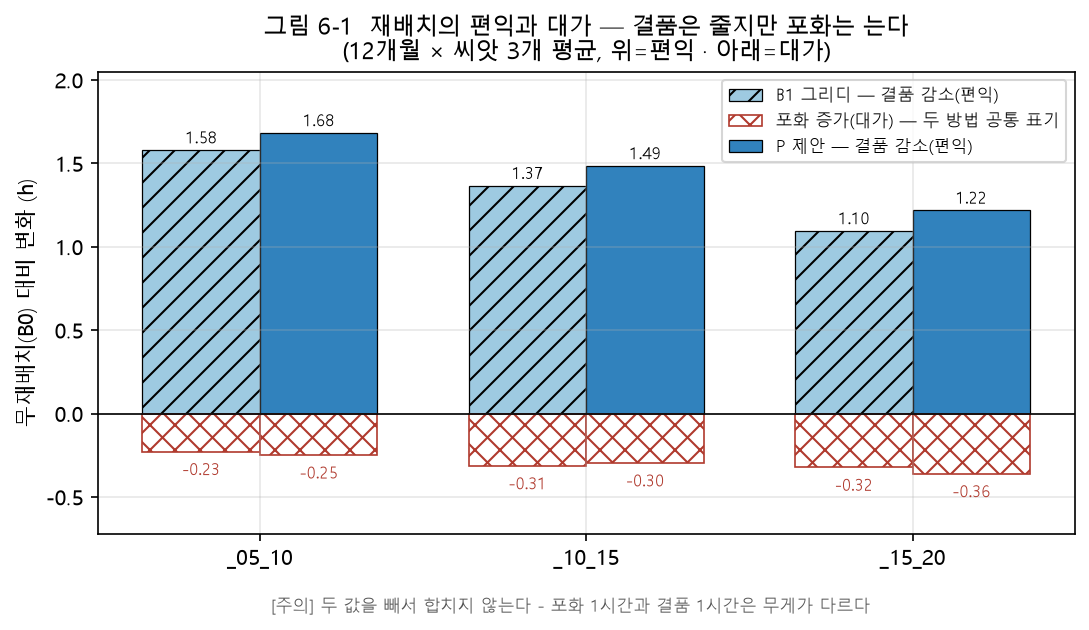
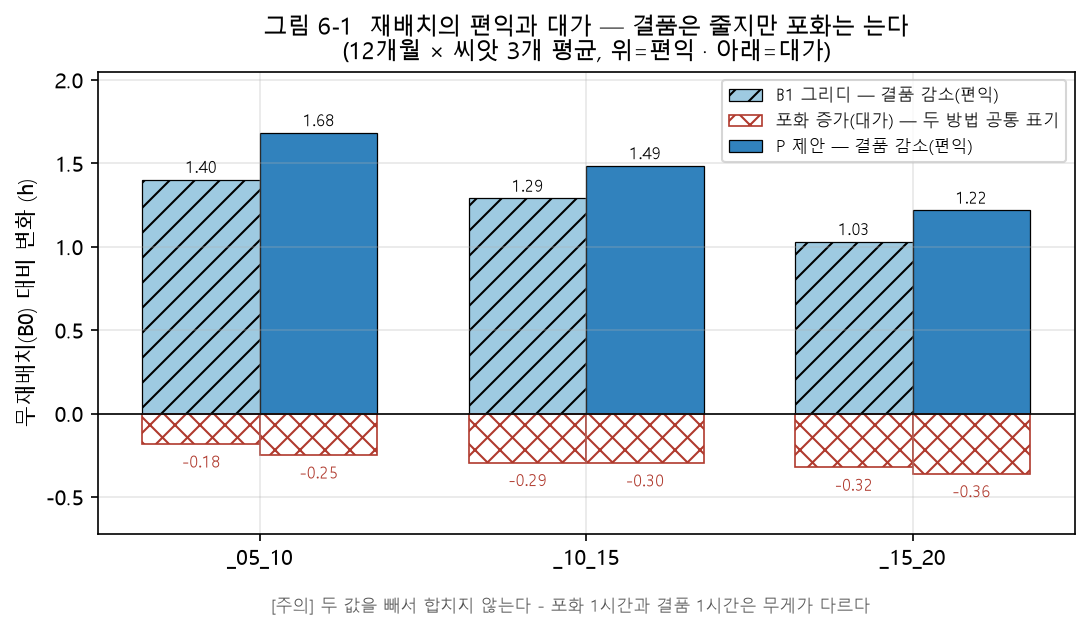
260921 논문의 핵심 장에 그림이 하나도 없었다 (1.26.256)
커밋 검토의 두 번째 항목이다. 원고 6장은 대조군 비교를 담는 핵심 장인데 그림이
0개였고, 앞붙이의 그림 차례에도 6장이 없었다. 그림 6-1·6-2·6-3은 초안에만 실려
있었고 파일은 09-07에 상수 속도(25km/h)로 그린 것이라, [그림 6-3]은 1.26.255에서
철회한 주장(*"km당으로는 그리디와 대등하다"*)을 그대로 그리고 있었다.

**원천부터 다시 만들었다.** 세 그림은 12개월 반복의 원본 행을 읽는데 켠 채로 돌린
그 파일은 `data\gate_a_rerun\`에만 있고 커밋되지 않는다. 회사 PC에서 채택한
계수로 다시 돌려(`repeat_12month_on.csv`) 33장의 표와 **한 자리까지 같은 것을
확인**했다 — P 결품 0.57 · 0.44 · 0.48h, 이동 460.5 · 361.0 · 395.9km, 최장
153.4 · 136.8 · 149.1분, 묶은 검정 +0.22h · −0.03h(n=108, p<0.0001). 끈 채 표와
켠 채 표가 이제 서로 다른 PC에서 각각 재현된 셈이다.

`make_thesis_figures.py`는 `REPEAT_12M` 상수로 켠 채 파일을 읽는다. 옛 파일 이름을
그대로 두면 다음 사람이 상수 속도 결과로 다시 그려도 알아채지 못하므로 상수 옆에
그 함정을 적었다. [그림 6-3]의 제목과 오른쪽 패널 라벨도 뒤집힌 결론에 맞게 고쳤다.

**원고 6.2·6.4·6.5에 그림과 본문 문단을 넣었다.** 그림 차례와 부록 A에도 올렸다.
[그림 6-2]에서 하나 확인한 것 — 세 회차 모두 제안 방법의 상자가 대조군보다 아래에
있고 상자끼리 겹치지 않지만 **수염은 겹친다.** 특정한 달·씨앗에서는 그리디가 제안
방법의 중앙값보다 나은 결과를 낸다는 뜻이라 본문에 적었다.

**거리에서도 하나 찾았다.** 채택한 식에서 P는 `_15_20`에서 그리디보다 12km 덜
다닌다(395.9 대 408.0). *"세 회차 모두 더 멀리 다닌다"* 는 상수 속도 표의 성질이라
초안 6장·9장의 그 문장에 단서를 달았다. 정합성 검사가 이 과정에서 제 몫을 했다 —
9장(파생 문서)에 앞 장에 없는 수치를 넣었더니 여섯 건으로 막았고, 초안 6장에 먼저
적은 뒤에야 통과했다.

🔴 **원고 README 4-1의 '자리' 규칙은 이 결함을 못 잡는다.** 자리 표시는 *아직 만들지
않은 자료*만 세고 **만들어 두고 원고에 싣지 않은 자료**는 세지 않는다. 09-19 기준
"자리 0곳"이었는데도 그림 셋이 빠져 있던 까닭이라, README에 이 한계를 적었다.

코드 1개 파일, 그림 3장 교체. 테스트 940 통과·2 건너뜀(942 수집), 정합성 검사 0건.

diff --git a/tools/make_thesis_figures.py b/tools/make_thesis_figures.py
@@ -81,6 +81,10 @@ STYLE = {
     "P": dict(색="#3182bd", 해치="", 마커="D", 이름="P 제안"),
 }
 DURATIONS = ["_05_10", "_10_15", "_15_20"]
+# 6장 그림 셋의 원천. **채택한 이동시간 식(320.4초 · 32.11km/h)으로 돌린 12개월 반복**이다 —
+# 옛 `repeat_12month_pinned.csv`는 상수 속도(25km/h)로 잰 것이라, 그 파일로 그리면 그림 6-3이
+# *"km당으로는 대등하다"* 는 **철회된 주장**을 그린다(EXPERIMENTS 33장). 재현은 부록 A에 있다.
+REPEAT_12M = "baseline/repeat_12month_on.csv"
 # 그림 3-5의 표본 끝 — 게이트 A 판정일. 채택 계수(320.4초 · 32.11km/h)가 이날까지의 패널에서 나왔다.
 ROAD_FIT_TO = "2026-09-15"
 
@@ -121,7 +125,7 @@ def _need(path: Path, what: str) -> pd.DataFrame | None:
 # ────────────────────────────────────────────────────────────── 6-2
 def fig_6_2():
     """12개월 반복의 분포. 표는 이것을 평균±표준편차 한 줄로 줄인다."""
-    frame = _need(EXP / "baseline/repeat_12month_pinned.csv", "12개월 반복 결과")
+    frame = _need(EXP / REPEAT_12M, "12개월 반복 결과(채택한 이동시간 식)")
     if frame is None:
         return
     fig, axes = plt.subplots(1, 3, figsize=(11, 3.6), sharey=True)
@@ -143,7 +147,7 @@ def fig_6_2():
         ax.set_title(f"{duration}  (각 n={len(data[0])})", fontsize=10)
     axes[0].set_ylabel("재배치 후 결품 시간 (h) — 낮을수록 좋음")
     fig.suptitle("그림 6-2  12개월 × 씨앗 3개 반복의 결품 시간 분포 "
-                 "(평일, 스냅샷 2026-08-11 real)\n"
+                 "(평일, 스냅샷 2026-08-11 real, 이동시간 식 적용)\n"
                  "상자는 사분위·수염은 1.5 IQR, 겹친 점이 개별 실행 36개다", fontsize=11, y=1.06)
     save(fig, "그림6-2_결품분포", "반복의 분포 (표는 평균±표준편차로 줄인다)")
 
@@ -151,7 +155,7 @@ def fig_6_2():
 # ────────────────────────────────────────────────────────────── 6-1
 def fig_6_1():
     """편익과 대가를 한 축에. 표 둘을 맞대야만 보이던 것이다."""
-    frame = _need(EXP / "baseline/repeat_12month_pinned.csv", "12개월 반복 결과")
+    frame = _need(EXP / REPEAT_12M, "12개월 반복 결과(채택한 이동시간 식)")
     if frame is None:
         return
     base = (frame[frame["method"] == "B0"]
@@ -199,8 +203,13 @@ def fig_6_1():
 
 # ────────────────────────────────────────────────────────────── 6-3
 def fig_6_3():
-    """P가 더 멀리 다닌다 — 논문이 감추지 않기로 한 사실이다(6.6)."""
-    frame = _need(EXP / "baseline/repeat_12month_pinned.csv", "12개월 반복 결과")
+    """P는 더 멀리 다닌다. **그래도 km당으로 앞선다** — 채택한 식에서 뒤집힌 결론이다.
+
+    상수 속도로 재던 동안에는 100km당 이득이 P 0.360h · B1 0.380h로 대등해 보였고,
+    그때 이 그림의 오른쪽 패널은 *"km당으로 재면 대등하다"* 를 보여 주고 있었다.
+    채택한 식에서는 0.360h 대 0.310h로 뒤집힌다(EXPERIMENTS 33장).
+    """
+    frame = _need(EXP / REPEAT_12M, "12개월 반복 결과(채택한 이동시간 식)")
     if frame is None:
         return
     base = (frame[frame["method"] == "B0"]
@@ -235,11 +244,11 @@ def fig_6_3():
     axes[1].set_xticks(x)
     axes[1].set_xticklabels(DURATIONS)
     axes[1].set_ylabel("1,000km당 결품 감소 (h)")
-    axes[1].set_title("km당으로 재면 대등하다 (오차막대 = 표준편차)", fontsize=10)
+    axes[1].set_title("km당으로 재도 제안 방법이 앞선다 (오차막대 = 표준편차)", fontsize=10)
     axes[1].legend(fontsize=8)
-    fig.suptitle("그림 6-3  편익과 이동 비용 — 제안 방법의 우위 일부는 더 멀리 다녀서 얻은 것이다",
+    fig.suptitle("그림 6-3  편익과 이동 비용 — 제안 방법은 더 멀리 다니지만 거리당으로도 앞선다",
                  fontsize=11, y=1.02)
-    save(fig, "그림6-3_편익과_이동거리", "P가 더 멀리 다닌다 (6.6)")
+    save(fig, "그림6-3_편익과_이동거리", "거리를 같게 놓고 봐도 P가 앞선다 (6.5)")
 
 
 # ────────────────────────────────────────────────────────────── 5-1

diff --git a/docs/연구/논문/6장_성능평가.md b/docs/연구/논문/6장_성능평가.md
@@ -59,6 +59,16 @@
 0인 시간과 거치대가 가득 찬 시간은 이용자가 겪는 일이 다르고, 합산 지표를 만들려면 그 가중치를
 먼저 정해야 한다. 본 연구는 두 값을 따로 보고한다.
 
+[그림 6-1]은 이 관계를 열두 달로 넓혀 본 것이다. 위로 뻗은 막대가 무재배치 대비 결품 감소이고, 아래로
+뻗은 막대가 같은 실행에서 늘어난 포화이다. 두 방법 모두 편익이 대가보다 크지만 그 비는 회차에 따라
+달라져, 05~10시에서는 편익이 대가의 예닐곱 배이고 15~20시에서는 서너 배이다.
+
+![그림 6-1](../초안/그림/그림6-1_편익과_대가.png)
+
+[그림 6-1] 재배치의 편익과 대가 (12개월 × 씨앗 3개 평균, 평일, 2026년 8월 11일 스냅샷, 이동시간은
+식 (3.12)의 계수). 위쪽 막대는 무재배치 대비 결품 감소이고 아래쪽 막대는 같은 실행의 포화 증가이다.
+두 값을 빼서 하나로 합치지 않는다.
+
 ## 6.3 비용 — 옮긴 대수, 이동거리, 시간
 
 <표 6-3> 같은 실행의 비용 (이동시간은 식 (3.12)의 계수로 계산)
@@ -107,6 +117,15 @@
 0.2~4.3분으로 같은 짝의 결품 이득(11.0~16.6분)의 1/64~1/4이다. 따라서 포화에 대해서는 두 방법이
 같다고도, 제안 방법이 확실히 낫다고도 말하지 않는다. 크기로만 말한다.
 
+[그림 6-2]는 그 중앙값 뒤에 있는 분포이다. 상자는 사분위 범위이고, 겹쳐 찍은 점이 개별 실행 36개이다.
+세 회차 모두에서 제안 방법의 상자가 두 대조군보다 아래에 있고 상자끼리 겹치지 않는다. 다만 수염은
+겹치므로, 특정한 달과 씨앗에서는 그리디가 제안 방법의 중앙값보다 나은 결과를 내기도 한다.
+
+![그림 6-2](../초안/그림/그림6-2_결품분포.png)
+
+[그림 6-2] 12개월 반복의 재배치 후 결품 시간 분포 (평일, 씨앗 3개, 시간대별 $n=36$). 상자는 사분위
+범위, 수염은 1.5 사분위수 범위이며, 겹쳐 찍은 점이 개별 실행이다.
+
 ## 6.5 대조군은 재는 자에 따라 달라진다
 
 그리디 대조군은 이동시간 식을 바꾸면 계획 자체가 달라진다. 차량마다 시간 예산이 찰 때까지 작업지를
@@ -124,6 +143,16 @@
 1.347시간에서 1.241시간으로 줄기 때문이다. 제안 방법이 좋아진 것이 아니라 대조군이 실제 조건에서
 무너진 것이다. 따라서 제안 방법의 우위를 더 멀리 다녀서 얻은 결과로 읽을 수는 없다. 다만 이 판단도
 이동시간 식에 기대고 있으며, 상수 속도를 가정하던 동안에는 반대로 읽혔다(7.2절).
+
+[그림 6-3]은 그 두 가지를 함께 본 것이다. 왼쪽은 실행별 총 이동거리와 결품 감소이고, 오른쪽은 거리로
+나눈 값이다. 제안 방법은 05~10시와 10~15시에서 그리디보다 평균 10~19km 더 다니지만 15~20시에서는 12km
+덜 다니며, 거리로 나눈 값은 세 회차 모두에서 제안 방법이 높다. 다만 실행마다 흔들림이 커서 표준편차가
+겹치므로, 이 그림만으로 두 방법이 갈린다고 읽어서는 안 된다. 앞 문단의 값은 열두 달을 평균한 것이다.
+
+![그림 6-3](../초안/그림/그림6-3_편익과_이동거리.png)
+
+[그림 6-3] 편익과 이동 비용 (12개월 × 씨앗 3개, 시간대별 $n=36$). 왼쪽은 실행별 총 이동거리와 무재배치
+대비 결품 감소이고, 오른쪽은 1,000km당 결품 감소의 평균과 표준편차이다.
 
 제안 방법은 군집을 먼저 고정하므로 같은 계획을 유지한다. 그래서 이동시간 식을 교체하면 두 방법의
 격차가 벌어진다. 12개월 반복에서 결품 중앙값 차는 시간대에 따라 0.070~0.114시간에서 0.183~0.276시간이

diff --git a/docs/연구/논문/README.md b/docs/연구/논문/README.md
@@ -210,6 +210,7 @@
 | 2026-09-19 | **1장 판정 원칙 5의 "수집 7일째"를 "판정용 수집 5일(9월 9일)"로.** 7일은 패널 전체 수집일(8/31부터)이고 10일은 판정용(9/2부터)이라, 한 문장에 섞으면 사흘만 더 기다린 것으로 읽힌다. 실제로는 닷새를 더 기다렸다(COLLECTOR_ROAD 11장의 09-09 기록) | 1.5 |
 | 2026-09-19 | **병합 — 21대/21명 문단을 기사가 뒷받침하는 만큼만.** 두 PC가 같은 문단을 따로 넣어 하나로 합치며 기사 본문을 다시 읽었다. 취재한 담당자가 *"수거와 재배치를 담당"* 하는 사람이라 *"수거는 재배치와 다르다"* · *"두 값이 같은 것은 우연이다"* 를 걷었다 | 8.4.1 |
 | 2026-09-21 | **<표 6-2>·<표 6-3>에 원천을 만들었다.** 두 표의 값은 게이트 A 재실행의 출력 폴더에만 있어 저장소 문서로는 재현되지 않았다 — EXPERIMENTS 30장이 *바뀐 칸*만 적었기 때문이다(P의 이동거리·투입 차량, B1의 포화가 어디에도 없었다). 회사 PC에서 같은 명령으로 다시 돌려 **한 자리까지 같은 표**를 30장에 실었다. 옮기며 *무재배치 대비* 여덟 칸이 **반올림된 값끼리 뺀 값**인 것을 찾아 스크립트가 찍는 값으로 고쳤고(예: B1 `_10_15` 결품 감소 −1.21 → −1.22 · P `_05_10` 포화 +0.20 → +0.19), 표 아래에 그 규칙을 한 줄 달았다. 본문의 폭 셋도 함께 바뀌었다(그리디 대비 0.22~0.23 · 포화 0.19~0.44 · B3 포화 0.11~0.18). 재현에 필요한 이동시간 식 스위치 세 줄을 부록 A 머리말에 적었다 | 6.2 · 6.3 · 9장 · 초록 · 부록 A |
+| 2026-09-21 | **6장에 그림 셋을 넣었다.** 핵심 장인데 그림이 하나도 없었다 — 그림 6-1·6-2·6-3은 초안에만 있었고 파일도 09-07(상수 속도)의 것이라, [그림 6-3]은 **철회된 주장**(*"km당으로는 대등하다"*)을 그리고 있었다. 12개월 반복을 채택한 식으로 다시 돌려(`repeat_12month_on.csv`) 셋을 다시 그리고, 6.2·6.4·6.5에 본문 문단과 캡션을 붙였다. 그림 차례와 부록 A에도 올렸다. 🔴 **4-1의 '자리' 규칙은 이 결함을 못 잡는다** — 자리 표시는 *만들지 않은 자료*만 세고, **만들어 두고 원고에 안 실은 자료**는 세지 않기 때문이다 | 6.2 · 6.4 · 6.5 · 앞붙이 그림 차례 · 부록 A |
 
 ### 7-3. 09-23 이후 (게이트 A 재실행 뒤)
 

diff --git a/docs/분석/EXPERIMENTS.md b/docs/분석/EXPERIMENTS.md
@@ -5417,6 +5417,21 @@ python experiments/baseline/repeat_eval.py --run-label "2026-08-11 real" `
 **두 값을 함께 적으십시오** — P의 벌어진 우위는 *예산을 넘겨서 얻은 것*이고, 그 초과는 30장에 있습니다.
 
 
+#### ✅ 다른 PC에서 다시 돌려도 같았다 (2026-09-21)
+
+> 재현: `PBR_USE_ROAD_MODEL=1` · `PBR_ROAD_FIXED_SEC_WEEKDAY=320.4` · `PBR_ROAD_SPEED_KMPH_WEEKDAY=32.11` 을 준 뒤
+> `python experiments/baseline/repeat_eval.py --periods "<12개월>" --seeds "42,7,13" --methods "P,B0,B1" --day-type weekday --run-label "2026-08-11 real" --out experiments/baseline/repeat_12month_on.csv`
+
+논문 6장의 그림 셋을 켠 값으로 다시 그리려면 12개월 반복의 **원본 행**이 필요한데, 그 파일도
+`data\gate_a_rerun\`에만 있었다. 회사 PC에서 다시 돌렸더니 **위 표와 한 자리까지 같다** —
+P 결품 0.57 · 0.44 · 0.48h, 이동 460.5 · 361.0 · 395.9km, 최장 153.4 · 136.8 · 149.1분,
+B1 결품 0.85 · 0.64 · 0.67h, 이동 441.1 · 351.1 · 408.0km. 묶은 검정도 같다(n=108, 결품 +0.22h ·
+포화 −0.03h, 둘 다 $p<0.0001$). **끈 채 표와 켠 채 표가 서로 다른 PC에서 각각 재현된 셈이다.**
+
+📌 **거리를 여기서 한 번 더 봐 두어야 한다.** 채택한 식에서 P는 `_05_10`·`_10_15`에서 B1보다 10~19km
+더 다니지만 **`_15_20`에서는 12km 덜 다닌다**(395.9 대 408.0). *"P가 늘 더 멀리 다닌다"* 는 상수 속도
+표(그때는 세 회차 모두 길었다)의 성질이고, 채택한 자에서는 회차마다 갈린다.
+
 #### 시간대별로 다시 — **②의 '세 회차 모두 갈린다'가 둘로 줄어든다**
 
 위 묶은 값(n=108)은 원고가 인용하는 자가 아닙니다. 원고 7.4는 **시간대별 $n=36$** 을 쓰므로 같은

diff --git a/docs/연구/논문/부록_재현.md b/docs/연구/논문/부록_재현.md
@@ -52,7 +52,10 @@ Python으로 실행한다. 비용 수치를 다루는 실험은 재고 스냅샷
 | 5.7 | 임계값 θ의 민감도 | `python experiments/params/convention_sweep.py` |
 | 5.7 | <표 5-9> 후보 상한별 비용 | `python experiments/params/limit_fixedpop_grid.py --period "25년 11월" --run-label "2026-08-11 real" --limits "15,20,25,30,40,50"` (상한 100은 `--limits "50,100"`) |
 | 6.2, 6.3 | <표 6-2>·<표 6-3> 대조군 비교 | `python experiments/baseline/baseline_compare.py --period "25년 11월" --day-type weekday --seed 42 --run-label "2026-08-11 real"` |
-| 6.4 | <표 6-4> 12개월 반복과 검정 | `python experiments/baseline/repeat_eval.py --run-label "2026-08-11 real" --seeds "42,7,13" --methods "P,B0,B1" --day-type weekday` (기간은 자료가 있는 12개월) |
+| 6.2 | [그림 6-1] 재배치의 편익과 대가 | `python tools/make_thesis_figures.py --only 6-1` |
+| 6.4 | <표 6-4> 12개월 반복과 검정 | `python experiments/baseline/repeat_eval.py --run-label "2026-08-11 real" --seeds "42,7,13" --methods "P,B0,B1" --day-type weekday --out experiments/baseline/repeat_12month_on.csv` (기간은 자료가 있는 12개월. 이 파일을 [그림 6-1]~[그림 6-3]이 읽는다) |
+| 6.4 | [그림 6-2] 12개월 반복의 결품 시간 분포 | `python tools/make_thesis_figures.py --only 6-2` |
+| 6.5 | [그림 6-3] 편익과 이동 비용 | `python tools/make_thesis_figures.py --only 6-3` |
 | 7.5 | 군집 쪼개기의 미집행 물량 | `python experiments/structure/budget_split.py` |
 | 7.5 | 두 군집씩 이어 도는 구조 (<표 7-2>) | `python experiments/structure/multi_cluster_route.py --period "25년 11월" --chain-size 2` (`--chain-size 3`) |
 | 7.5 | 총 대여 기준 충족률 | `python experiments/structure/fulfill_gross.py` |

diff --git a/docs/연구/초안/6장_실험_성능평가.md b/docs/연구/초안/6장_실험_성능평가.md
@@ -272,6 +272,11 @@ P는 B1보다 자전거를 **덜** 옮긴다(회차당 172~286대 대 197~316대
 **다시 그려야 하는 그림이다.**[^km] 재현:
 `python tools/make_thesis_figures.py --only 6-3`
 
+⚠ **거리 자체도 '세 회차 모두'가 아니다.** 채택한 식의 12개월 평균으로 보면 P의 총
+이동거리는 `_05_10` 460.5 대 441.1km, `_10_15` 361.0 대 351.1km로 그리디보다 길지만
+`_15_20`은 395.9 대 408.0km로 **짧다.** *"P가 늘 더 멀리 다닌다"* 는 상수 속도 표의
+성질이고, 채택한 자에서는 회차마다 갈린다.
+
 [^km]: 🔴 **2026-09-20에 철회한 주장이다.** 상수 속도로 재던 동안에는 100km당
     결품 이득이 제안 방법 0.360시간 · 그리디 0.380시간이어서 *"km당 효율은
     그리디와 대등하다 — 우위의 일부는 더 멀리 다녀서 얻은 것"* 이라고 썼다.

diff --git a/docs/연구/논문/앞붙이.md b/docs/연구/논문/앞붙이.md
@@ -157,6 +157,9 @@ SW융합대학
 | [그림 5-1] | 같은 안전계수 격자를 세 모집단으로 잰 재배치 후 결품 시간 |
 | [그림 5-2] | 시간대별 평균 순수요 절댓값의 분포 |
 | [그림 5-3] | 계절 전환 달의 일별 대여 건수와 배율 산정 구간 |
+| [그림 6-1] | 재배치의 편익과 대가 |
+| [그림 6-2] | 12개월 반복의 결품 시간 분포 |
+| [그림 6-3] | 편익과 이동 비용 |
 | [그림 8-1] | 조사 주간의 공식 통계와 공개 대여이력의 일별 대여 건수 |
 | [그림 8-2] | 거점 선정 기준별 거점과 05~10시 작업 대상의 위치 |
 
